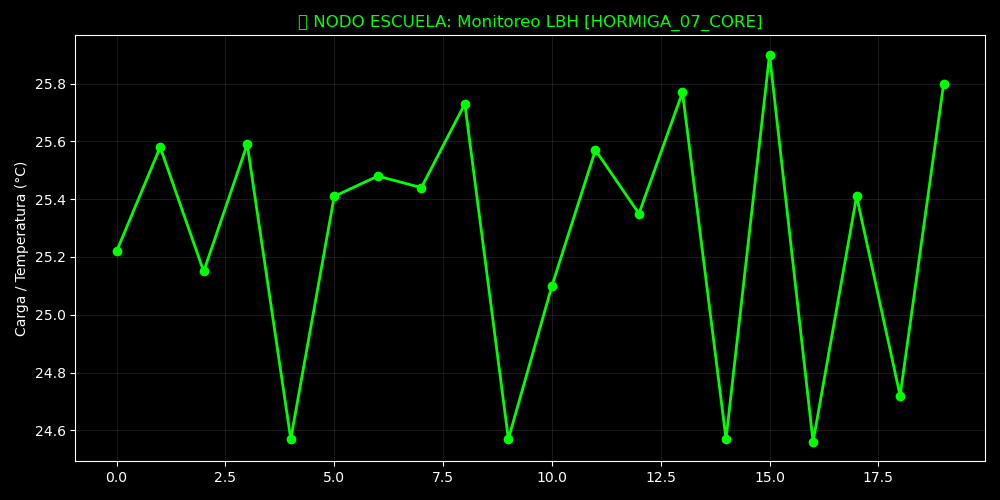
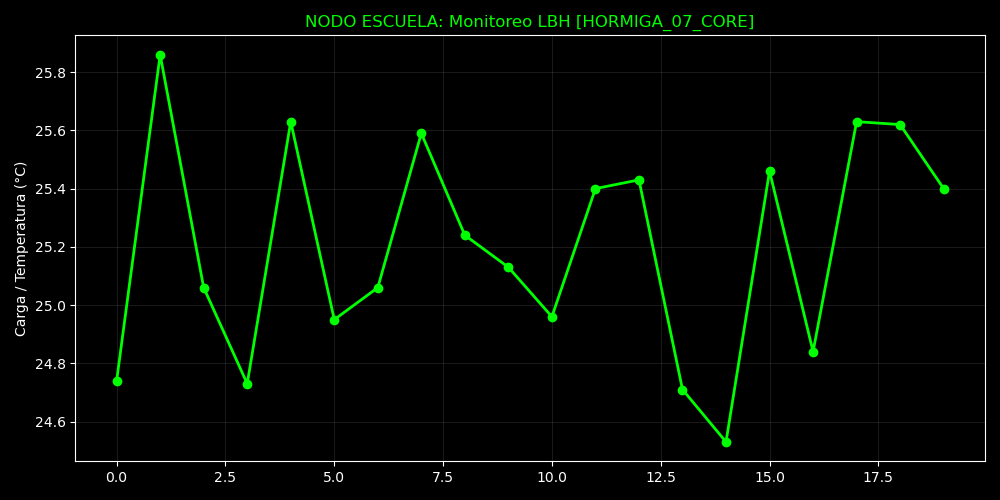
🖼 ADAPTER_UPDATE: Gráfico y README sincronizados con Nodo Maestro | PUSH_OK

diff --git a/README.md b/README.md
@@ -1,14 +1,16 @@
-# 🐜 HormigasAIS - Ecosistema de Inteligencia de Enjambre
+# 🐜 xoxo-lbh-adapter
+🛡 **Puente de Inteligencia Distribuida Soberana**
 
-## 📊 Tablero de Control de Activos (Real-Time)
-Este repositorio gestiona la auditoría inalterable de datos validados mediante el protocolo LBH y firmas HMAC-2025.
+Este repositorio actúa como el Adapter visual de la Colonia HormigasAIS. 
+Los datos aquí presentados son validados por el **Nodo Escuela** bajo protocolo LBH.
 
-![Rendimiento del Enjambre](./REPORTE_RENDIMIENTO_HORMIGAS.png)
+### 📊 Pulso en Tiempo Real (Hormiga 07)
+![Rendimiento del Enjambre](REPORTE_RENDIMIENTO_HORMIGAS.png)
 
-### 🛠 Especificaciones Técnicas
-* **Seguridad:** Firmas digitales HMAC-SHA256.
-* **Gobernanza:** Contratos Humanos LBH (Human-in-the-loop).
-* **Almacenamiento:** Auditoría persistente en CSV sincronizada con GitHub.
+### ⚙ Estado del Sistema
+- **Protocolo:** LBH SOBERANO
+- **Firma Raíz:** Cristhiam Leonardo Hernández Quiñonez (CLHQ)
+- **Estado:** ✅ ANTIFRÁGIL
 
 ---
-*Generado automáticamente por el Nodo Maestro HormigasAIS.*
+*San Miguel, El Salvador | 2025-12-28*
